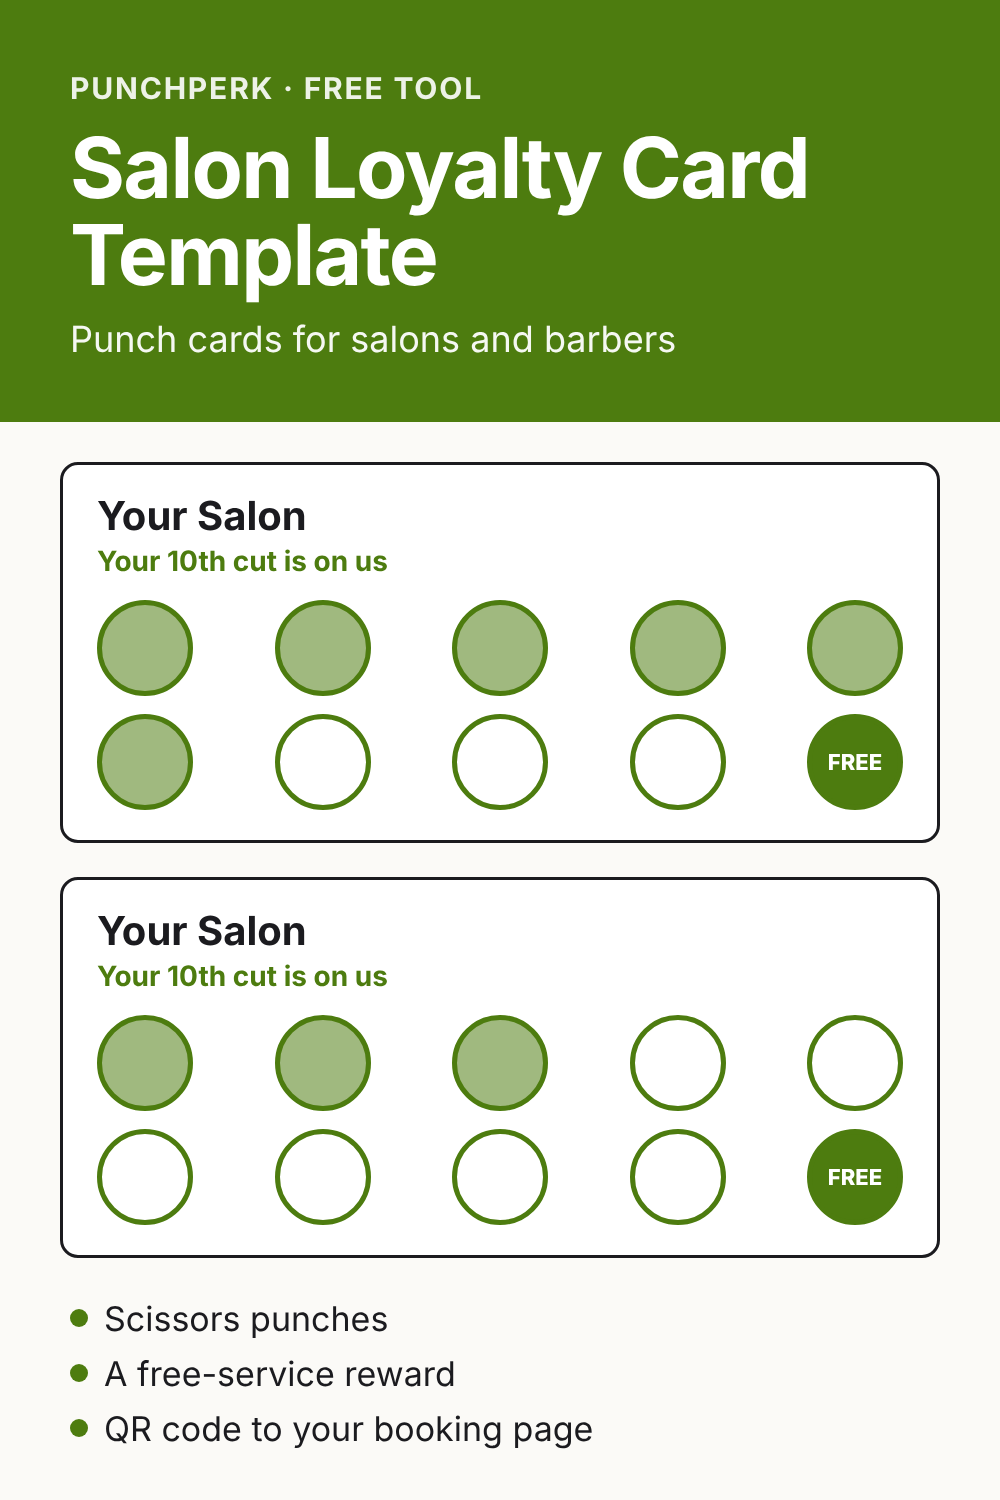
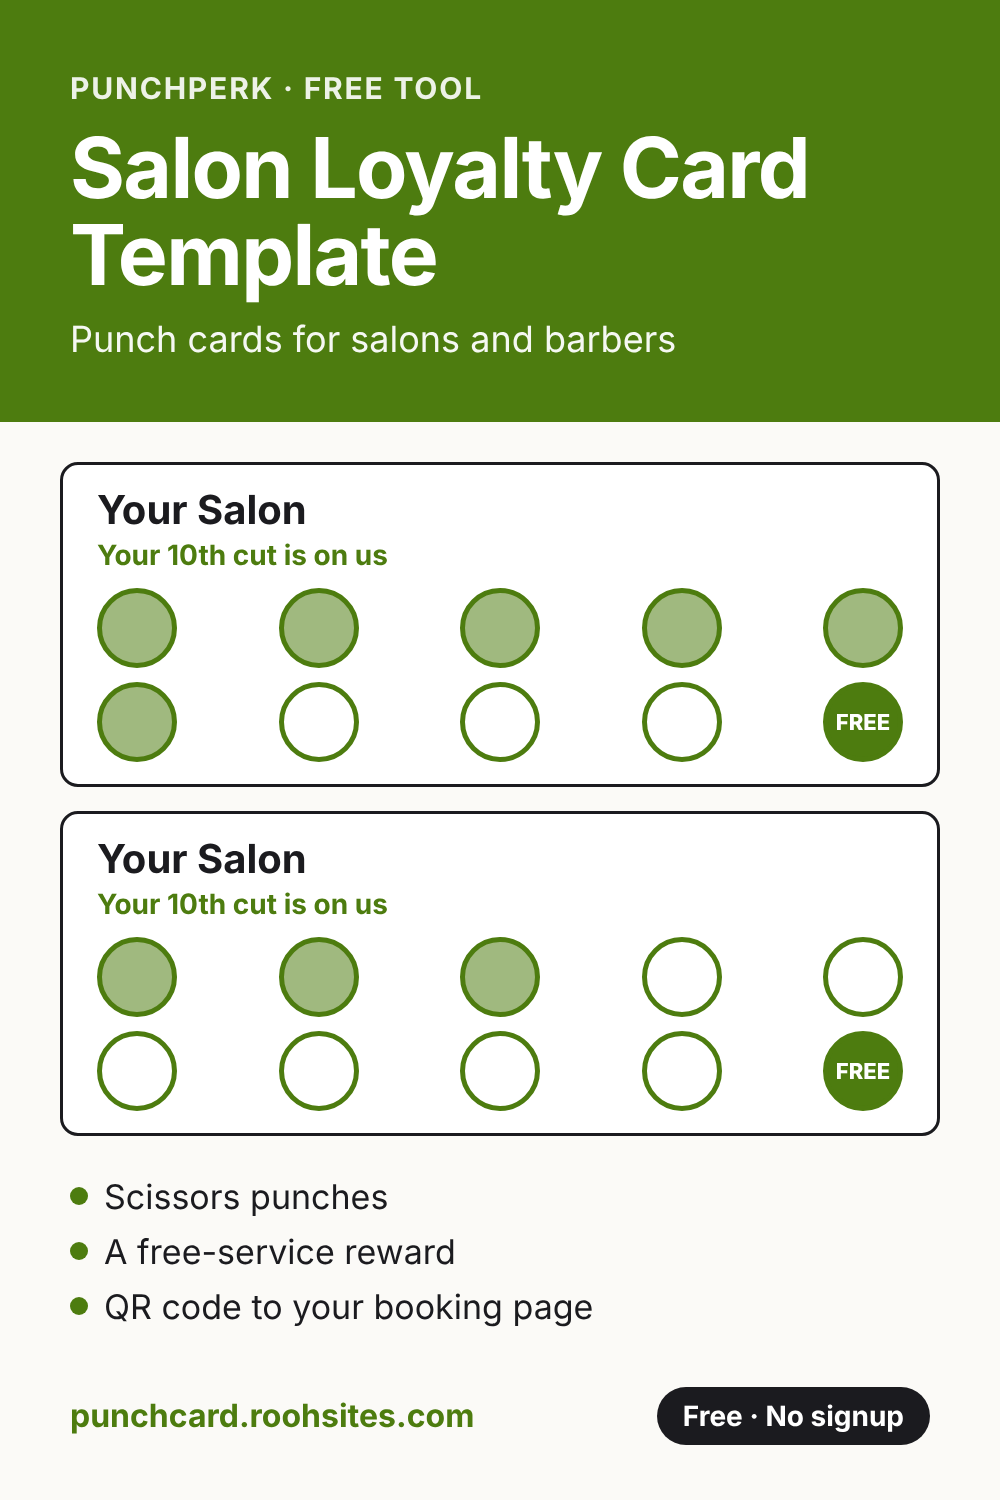
Pinterest: add days 25-34 (34 posts) and two boards
Ten new pins for tool pages that had none: FNSKU generator and DYMO 30334
(new board "Amazon FBA Prep Labels"), panel schedule and breaker labels
(new board "Electrician Printables"), punch cards 10 per page, photography
and with-stub gift certificates, split label and packing slip, printing a
label from a phone, and IEP at a glance. New visuals for FNSKU labels,
the panel schedule and breaker label strips. Days 1-24 and the existing
boards are unchanged. The punch card drawing is a little smaller so the
footer fits on all three punch card pins.

Claude-Session: https://claude.ai/code/session_013K4xnLBvJHgVK2mhbRP5pk

diff --git a/marketing/pinterest-posts.md b/marketing/pinterest-posts.md
@@ -12,6 +12,8 @@ One pin a day, in this order. Cowork reads the same list from https://tools.rooh
 - **Small Business Invoices**: Free invoice templates and an invoice generator for freelancers and small businesses.
 - **Online Seller Shipping**: Free tools and tips for Vinted, eBay and Etsy sellers: shipping labels, thermal printers and packing.
 - **Small Business Printables**: Free printable gift certificates, loyalty punch cards and vouchers for salons, spas, cafés and small shops.
+- **Amazon FBA Prep Labels**: Free FNSKU label tools for Amazon FBA sellers: thermal rolls, DYMO labels, label sheets and prep warnings.
+- **Electrician Printables**: Free electrical panel schedule templates, breaker box labels and circuit directories for electricians and homeowners.
 
 ## Day 1: Printable Raffle Tickets with Numbers
 
@@ -228,3 +230,93 @@ One pin a day, in this order. Cowork reads the same list from https://tools.rooh
 - **Description:** Turn an eBay half-sheet (8.5x11) shipping label into a 4x6 thermal label, or put two labels on one half-sheet page. Free, private and it works in your browser.
 - **Alt text:** eBay Half-Sheet Label to 4x6: Ship faster this holiday season. The image shows an A4 label page converted into a 6 by 4 inch thermal label, from labels.roohsites.com.
 - **Keywords:** ebay shipping label 4x6, ebay half sheet label, thermal label printer, ebay seller tips, 4x6 label
+
+## Day 25: Free FNSKU Label Generator
+
+- **Board:** Amazon FBA Prep Labels
+- **Image:** https://tools.roohsites.com/pins/fnsku-label-generator.png
+- **Link:** https://fnsku.roohsites.com/?utm_source=pinterest&utm_medium=social&utm_campaign=pins
+- **Description:** Make FNSKU labels for Amazon FBA in your browser: paste your X00 codes or import a CSV, pick 2 × 1 in thermal rolls, DYMO 30334 or 30-up Letter sheets, and download a PDF to print at 100%.
+- **Alt text:** Free FNSKU Label Generator: Thermal rolls, DYMO 30334 or label sheets. The image shows a sheet of FNSKU barcode labels with product names, from fnsku.roohsites.com.
+- **Keywords:** fnsku label generator, fnsku labels, amazon fba labels, fba prep, thermal label printer
+
+## Day 26: Punch Cards, 10 per Page
+
+- **Board:** Small Business Printables
+- **Image:** https://tools.roohsites.com/pins/punch-card-template-10-per-sheet.png
+- **Link:** https://punchcard.roohsites.com/punch-card-template-10-per-sheet?utm_source=pinterest&utm_medium=social&utm_campaign=pins
+- **Description:** Print 10 loyalty punch cards per page on business card sheets: 3.5 × 2 in on Letter or 85 × 55 mm on A4, with an alignment test and matching backs. Free PDF from your browser.
+- **Alt text:** Punch Cards, 10 per Page: A template sized for business card sheets. The image shows two loyalty punch cards with ten punch circles and a free reward, from punchcard.roohsites.com.
+- **Keywords:** punch card template, punch card 10 per page, business card punch card, loyalty card template, printable punch cards
+
+## Day 27: Electrical Panel Schedule Template
+
+- **Board:** Electrician Printables
+- **Image:** https://tools.roohsites.com/pins/electrical-panel-schedule-template.png
+- **Link:** https://panelschedule.roohsites.com/?utm_source=pinterest&utm_medium=social&utm_campaign=pins
+- **Description:** Fill in a panel schedule that looks like the panel: odd circuits down the left, even down the right, with amps, wire size, AFCI/GFCI and load per leg. Download a PDF, Excel, a door directory or labels.
+- **Alt text:** Electrical Panel Schedule Template: Laid out like the real panel. The image shows a two-column breaker panel schedule with numbered circuits, from panelschedule.roohsites.com.
+- **Keywords:** panel schedule template, electrical panel schedule, breaker panel directory, electrician printables, circuit directory
+
+## Day 28: IEP at a Glance Template
+
+- **Board:** ABA Data Sheets & Graphs
+- **Image:** https://tools.roohsites.com/pins/iep-at-a-glance-template.png
+- **Link:** https://iepglance.roohsites.com/?utm_source=pinterest&utm_medium=social&utm_campaign=pins
+- **Description:** Make a one-page IEP at a glance for the teachers, subs and paras who don't read the full IEP: strengths, what helps, what to watch for and accommodations. Batch a whole caseload as one PDF.
+- **Alt text:** IEP at a Glance Template: One page per student for subs and paras. The image shows a one-page document preview, from iepglance.roohsites.com.
+- **Keywords:** iep at a glance, iep at a glance template, special education printables, 504 plan, sub plans
+
+## Day 29: Split Label and Packing Slip
+
+- **Board:** Online Seller Shipping
+- **Image:** https://tools.roohsites.com/pins/split-shipping-label-and-packing-slip.png
+- **Link:** https://labels.roohsites.com/split-shipping-label-and-packing-slip?utm_source=pinterest&utm_medium=social&utm_campaign=pins
+- **Description:** Got a PDF with the shipping label and packing slip on one page? Split it into two 4 × 6 in (100 × 150 mm) pages for your thermal printer, or drop the slip. Free and it runs in your browser.
+- **Alt text:** Split Label and Packing Slip: One PDF page into two 4 × 6 pages. The image shows an A4 label page converted into a 6 by 4 inch thermal label, from labels.roohsites.com.
+- **Keywords:** split shipping label, packing slip, 4x6 label, thermal printer, shipping label pdf
+
+## Day 30: Photography Gift Certificate Template
+
+- **Board:** Small Business Printables
+- **Image:** https://tools.roohsites.com/pins/photography-gift-certificate-template.png
+- **Link:** https://giftcert.roohsites.com/photography-gift-certificate-template?utm_source=pinterest&utm_medium=social&utm_campaign=pins
+- **Description:** A free gift certificate template for photographers: session type, edited images, booking window and a numbered stub. Print 3 per page, or save one as a PNG to email to the buyer.
+- **Alt text:** Photography Gift Certificate Template: Sell portrait sessions as gifts. The image shows a gift certificate with a numbered tear-off stub, from giftcert.roohsites.com.
+- **Keywords:** photography gift certificate, photo session gift card, photographer gift certificate template, mini session, holiday photos
+
+## Day 31: Breaker Box Label Template
+
+- **Board:** Electrician Printables
+- **Image:** https://tools.roohsites.com/pins/breaker-box-label-template.png
+- **Link:** https://panelschedule.roohsites.com/breaker-box-label-template?utm_source=pinterest&utm_medium=social&utm_campaign=pins
+- **Description:** Print one small label per breaker with its circuit number and a short name, 4 across with cut lines on Letter or A4. Cut them out and stick each one beside its breaker. Free, no signup.
+- **Alt text:** Breaker Box Label Template: One numbered label per circuit. The image shows numbered breaker labels with short circuit names and cut lines, from panelschedule.roohsites.com.
+- **Keywords:** breaker box labels, circuit breaker labels, breaker label template, electrical panel labels, label maker
+
+## Day 32: DYMO 30334 FNSKU Labels
+
+- **Board:** Amazon FBA Prep Labels
+- **Image:** https://tools.roohsites.com/pins/dymo-30334-fnsku-labels.png
+- **Link:** https://fnsku.roohsites.com/dymo-30334-fnsku-labels?utm_source=pinterest&utm_medium=social&utm_campaign=pins
+- **Description:** Print FNSKU labels on DYMO 30334 rolls (2-1/4 × 1-1/4 in) with a LabelWriter: the PDF is cut to the exact label size with 300 dpi barcodes and two title lines. Free, no signup.
+- **Alt text:** DYMO 30334 FNSKU Labels: 2.25 × 1.25 in, one label per page. The image shows a sheet of FNSKU barcode labels with product names, from fnsku.roohsites.com.
+- **Keywords:** dymo 30334, dymo fnsku labels, labelwriter fnsku, amazon fba labels, 2.25 x 1.25 labels
+
+## Day 33: Gift Certificate Template with Stub
+
+- **Board:** Small Business Printables
+- **Image:** https://tools.roohsites.com/pins/gift-certificate-template-with-stub.png
+- **Link:** https://giftcert.roohsites.com/gift-certificate-template-with-stub?utm_source=pinterest&utm_medium=social&utm_campaign=pins
+- **Description:** Keep track of every gift certificate you sell: each one has a stub with the same number and lines for issued to, date, amount and redeemed. 3 per Letter or A4 page, free PDF.
+- **Alt text:** Gift Certificate Template with Stub: Numbered stubs so you can track every one. The image shows a gift certificate with a numbered tear-off stub, from giftcert.roohsites.com.
+- **Keywords:** gift certificate template with stub, numbered gift certificates, gift certificate tracking, small business, printable gift certificate
+
+## Day 34: Print a Shipping Label from Your Phone
+
+- **Board:** Online Seller Shipping
+- **Image:** https://tools.roohsites.com/pins/print-shipping-label-from-phone.png
+- **Link:** https://labels.roohsites.com/print-shipping-label-from-phone?utm_source=pinterest&utm_medium=social&utm_campaign=pins
+- **Description:** Selling from your phone? Turn the label PDF into a 4 × 6 in image at 203 or 300 dpi and share it to your Bluetooth printer app. Works on iPhone and Android, free.
+- **Alt text:** Print a Shipping Label from Your Phone: To a Bluetooth thermal printer. The image shows an A4 label page converted into a 6 by 4 inch thermal label, from labels.roohsites.com.
+- **Keywords:** print shipping label from phone, bluetooth thermal printer, 4x6 label, iphone shipping label, poshmark label

diff --git a/marketing/cowork-pinterest-prompt.md b/marketing/cowork-pinterest-prompt.md
@@ -7,7 +7,7 @@ Hand the prompt below to Claude Cowork as a **scheduled task that runs once a da
 2. Optional but recommended: switch to a free Pinterest **Business** account (Settings → Account management → Convert to business). It adds pin analytics and costs nothing.
 3. Optional: claim your websites in Pinterest (Settings → Claimed accounts → Websites). Pinterest gives you a meta tag or file; send it to me and I'll add it to the sites.
 
-The schedule (24 posts, one per day; days 15–24 are holiday-season pins) is published at https://tools.roohsites.com/pins/schedule.json. A readable copy is in `marketing/pinterest-posts.md`. When I add more pins, the task picks them up automatically.
+The schedule (34 posts, one per day; days 15–24 are holiday-season pins, days 25–34 cover the FNSKU, panel schedule, punch card, gift certificate, label and IEP tools) is published at https://tools.roohsites.com/pins/schedule.json. A readable copy is in `marketing/pinterest-posts.md`. When I add more pins, the task picks them up automatically.
 
 ---
 
